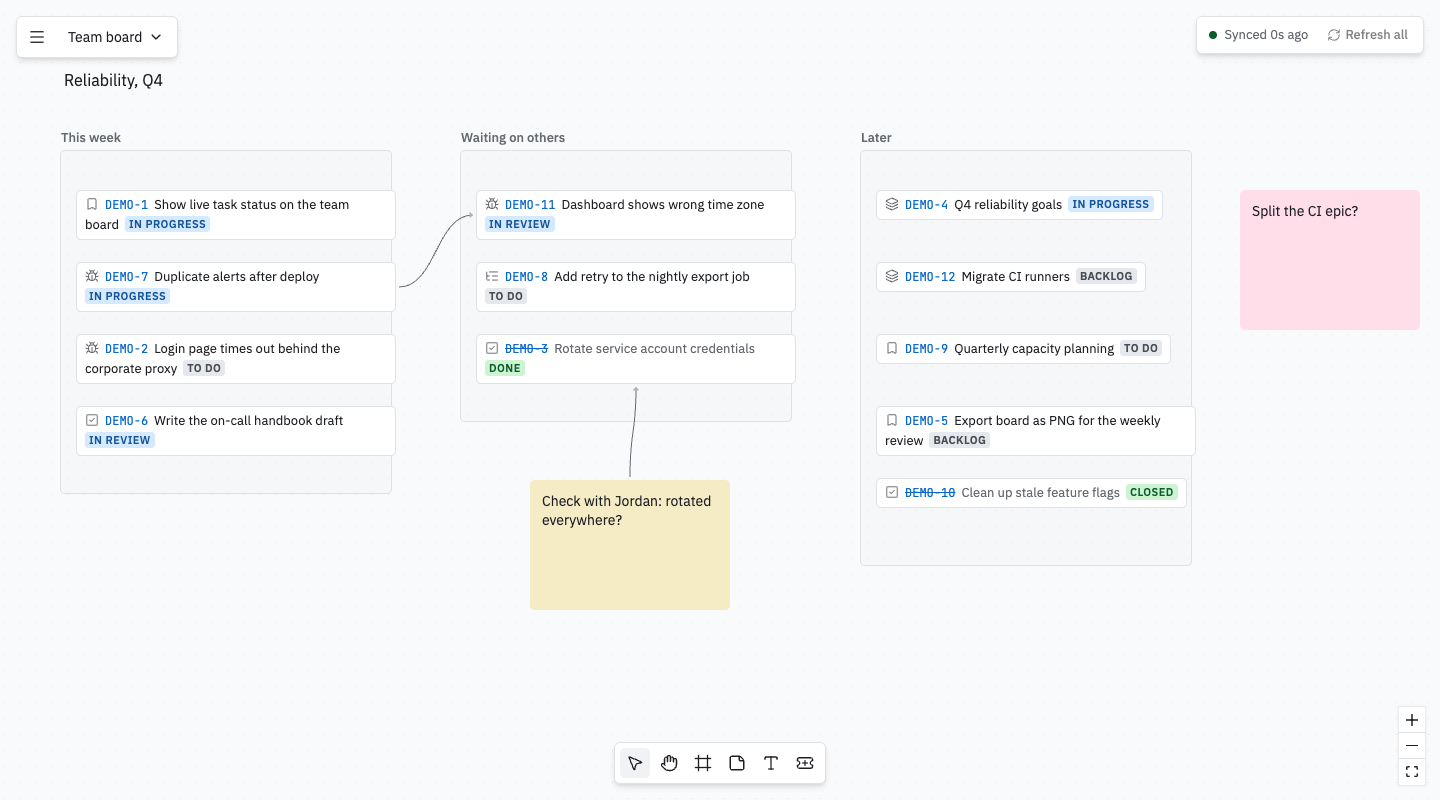
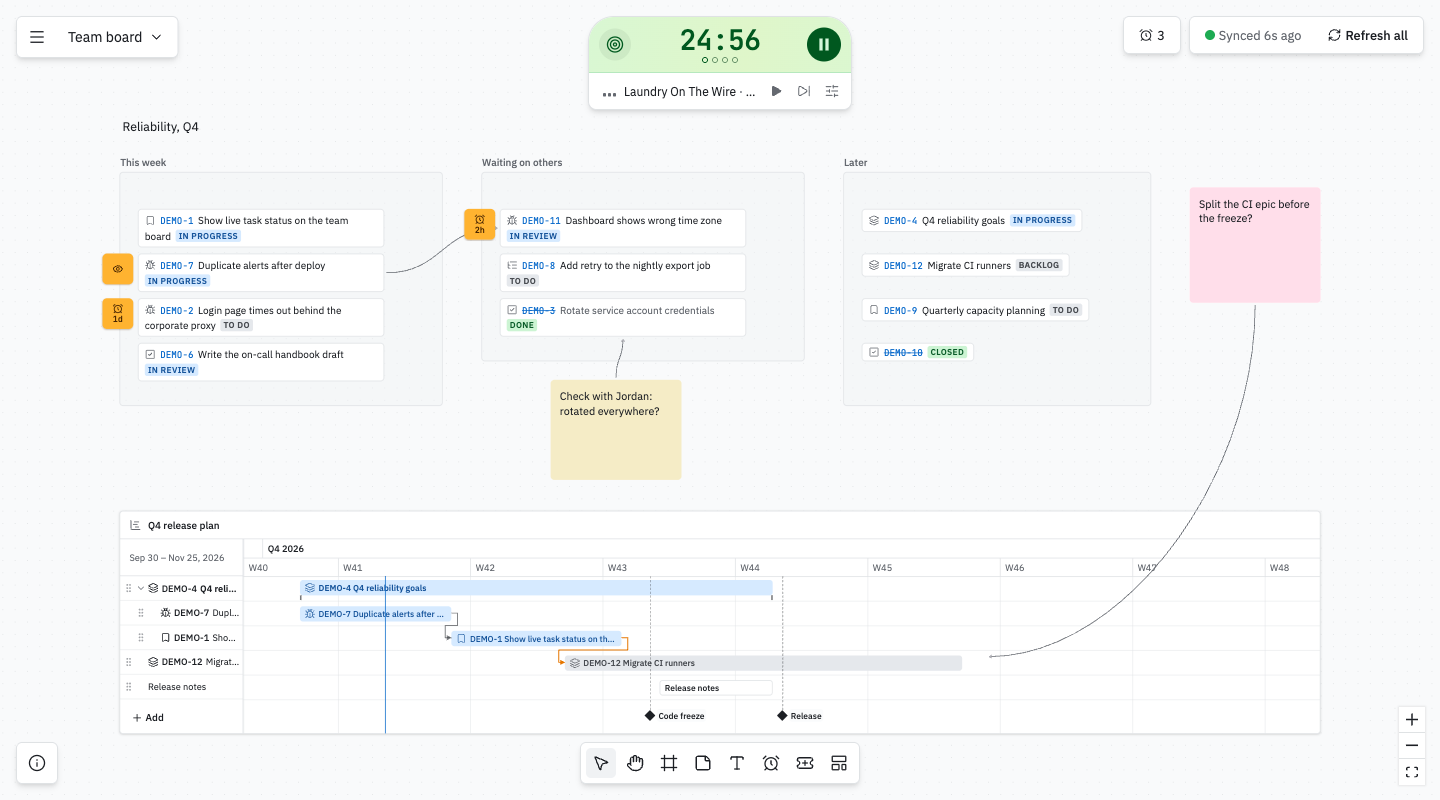
docs: new README screenshot with timers, Gantt and focus timer

diff --git a/README.md b/README.md
@@ -18,7 +18,7 @@
   <a href="https://smacktur.github.io/drawhl/"><img src="https://img.shields.io/badge/docs-user%20guide-8A2BE2" alt="Docs"></a>
 </p>
 
-![A drawhl board: three frames of task cards with live statuses, sticky notes and arrows](docs/assets/board.png)
+![A drawhl board: frames of live task cards with timers, sticky notes, arrows, a Gantt release plan and the focus timer](docs/assets/board.png)
 
 drawhl is an open-source, self-hosted whiteboard where the tasks from your tracker live as cards. Put them in frames, circle a group, leave a sticky note beside it and draw arrows between them. Statuses update on their own while the board is open, so the board stays true without manual upkeep.
 
